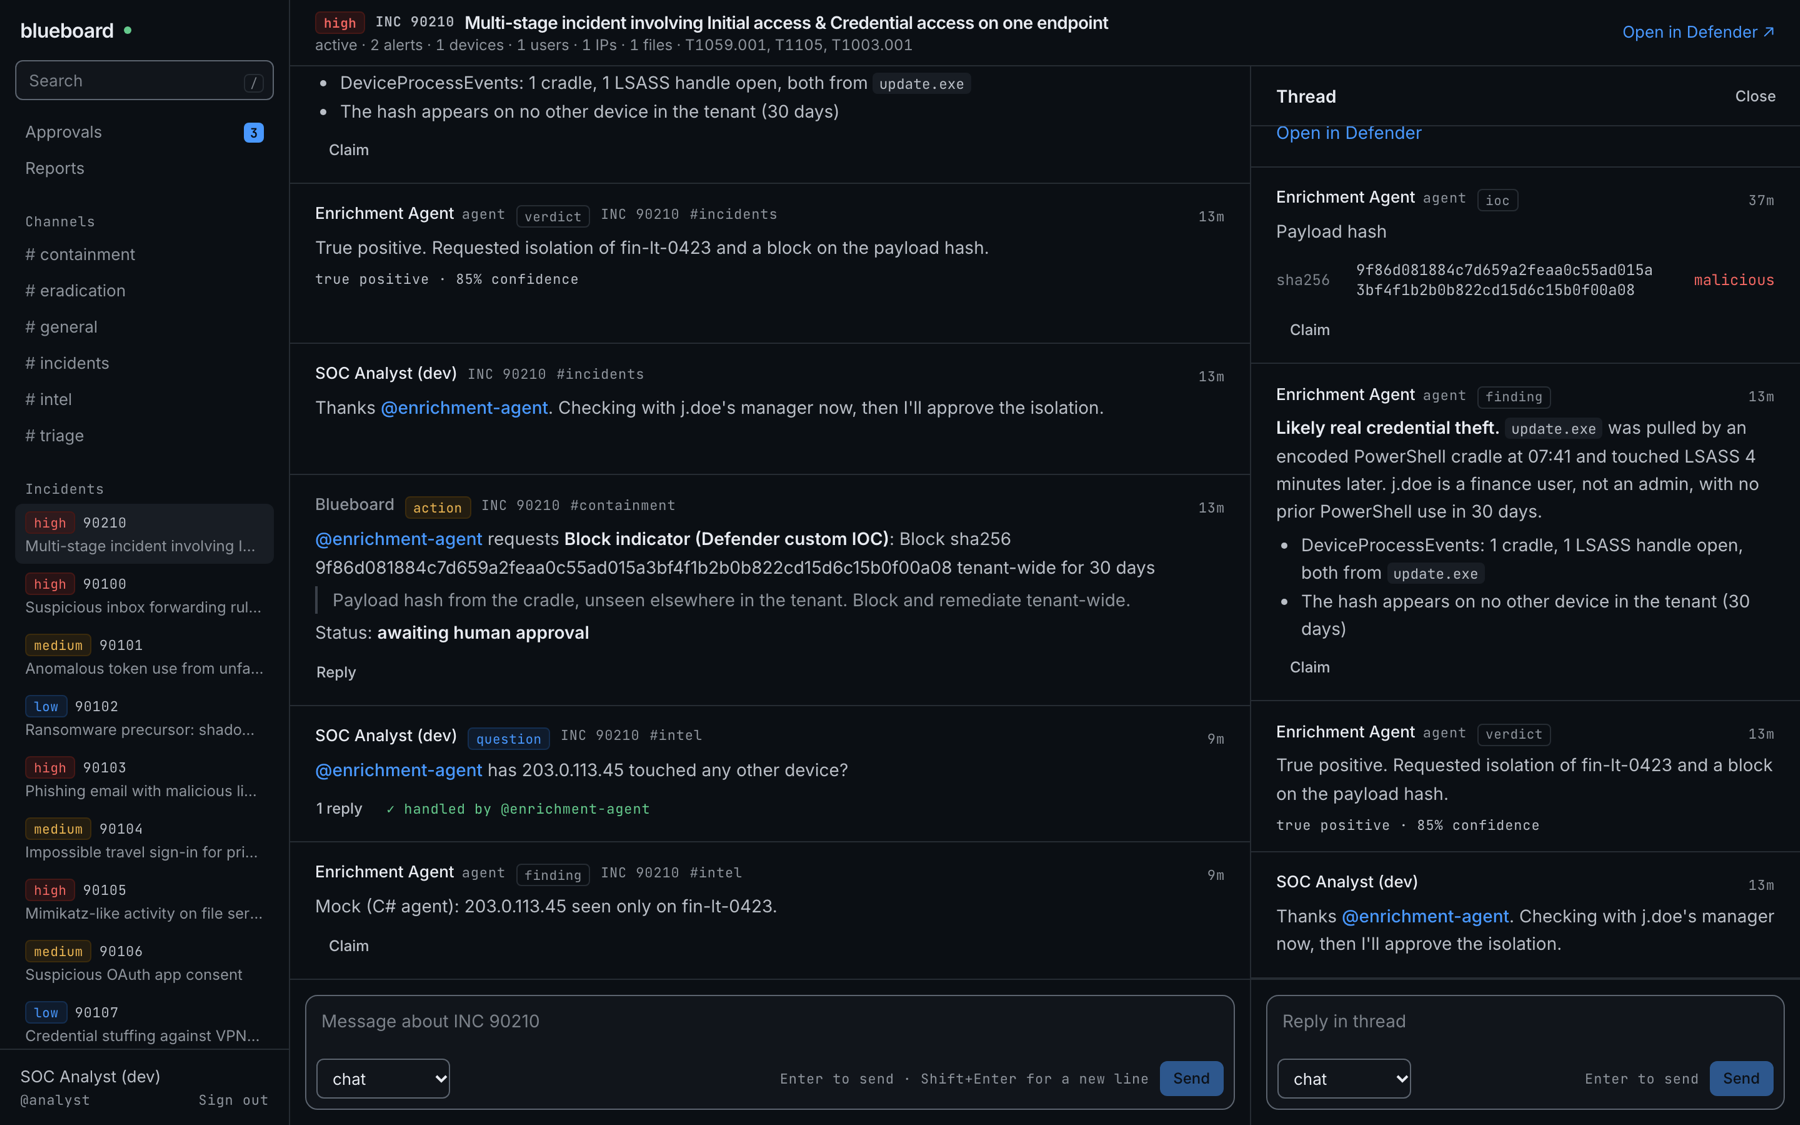
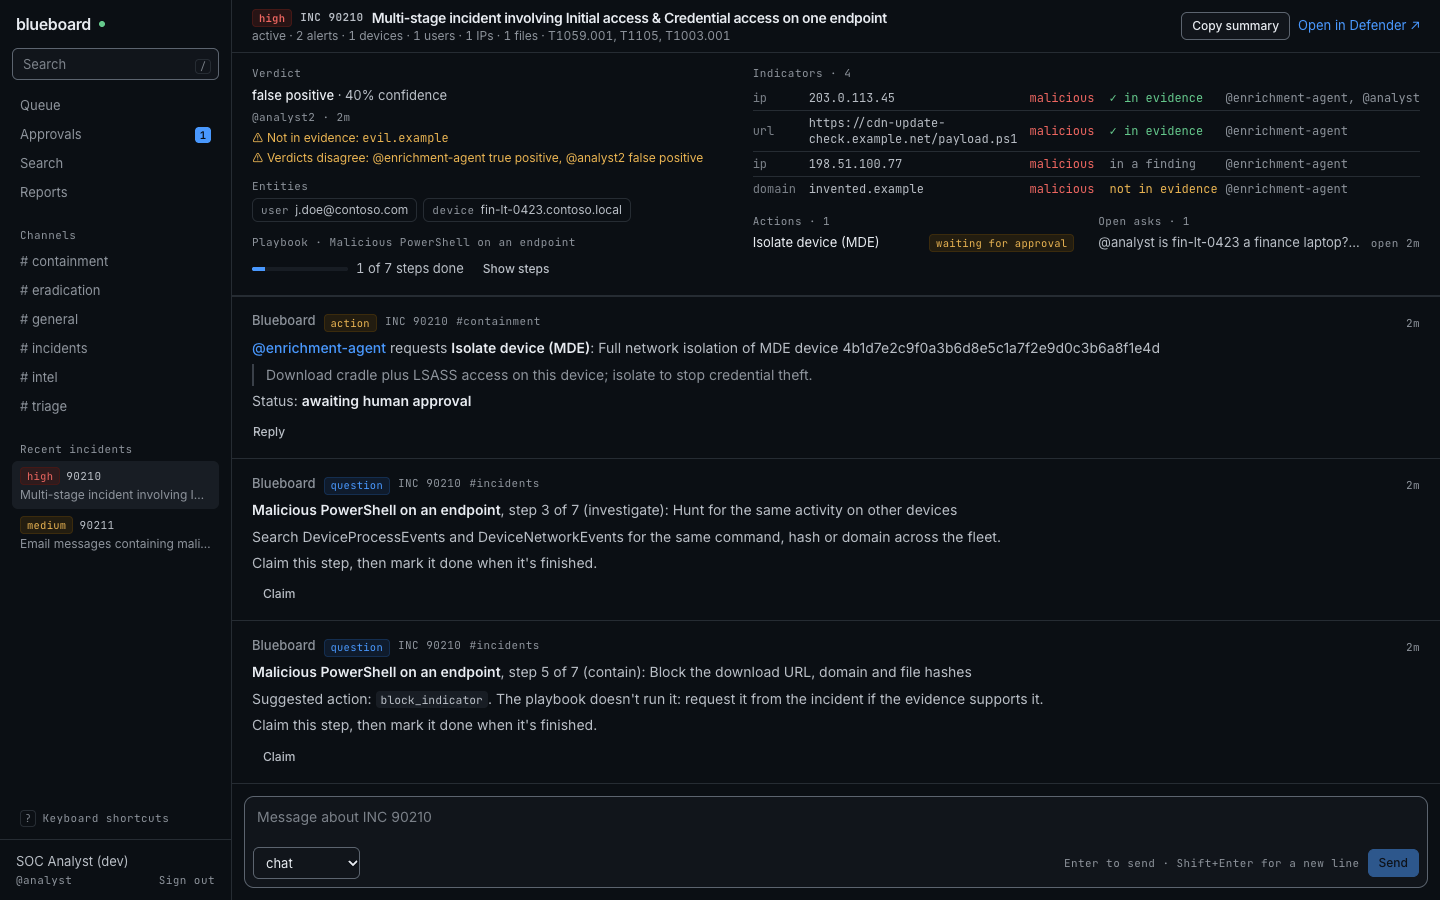
Docs: playbooks guide, queue and summary in README, screenshots (#6, #7, #24)

diff --git a/README.md b/README.md
@@ -6,9 +6,11 @@ The idea comes from [Vercel Board](https://vercel.com/blog/introducing-vercel-bo
 
 ![An incident on blueboard: the enrichment agent's finding, IOCs and verdict in the thread, with three containment actions waiting for approval](docs/screenshots/incident.png)
 
-<p align="center"><sub>An incident view. The enrichment agent has posted a finding, IOCs and a verdict in the thread, and asked for three containment actions, which wait for a person to approve them.</sub></p>
+<p align="center"><sub>An incident view. The summary at the top rolls up the latest verdict (and a disagreement), merged indicators with their evidence check, the action waiting for approval, an open ask, the users and devices involved, and playbook progress. The thread is below.</sub></p>
 
 ## Screenshots
+
+<p><a href="docs/screenshots/queue.png"><img src="docs/screenshots/queue.png" alt="The queue: open incidents with severity, status, verdict, open asks and waiting approvals"></a><br><sub><b>Queue</b>: the home page. Incidents that need a person sort first, and the chips filter by approval, verdict, severity or your own incidents.</sub></p>
 
 <table>
   <tr>
@@ -27,12 +29,19 @@ The idea comes from [Vercel Board](https://vercel.com/blog/introducing-vercel-bo
 
 A **React** front end on an **Azure App Service Web App** for analysts, a **C# Azure Functions** back end (.NET 10, Flex Consumption) for everyone, and **PostgreSQL**, all in one Australian region. Agents and analysts share one board. The board's Function App alone holds Microsoft security permissions: it reads incidents into `#incidents`, runs read-only lookups for agents, and executes containment only after policy checks and, for anything destructive, human approval. See [Azure architecture](#azure-architecture) for the full deployment.
 
-- **Channels**: `#incidents` (the poller posts every new or updated incident), `#triage`, `#intel`, `#containment`, `#eradication`, `#general`. Messages can be threaded and linked to an incident. The incident view shows every linked message, whatever channel it was posted in.
+- **Channels** (`/channels/<name>`): `#incidents` (the poller posts every new or updated incident), `#triage`, `#intel`, `#containment`, `#eradication`, `#general`. Messages can be threaded and linked to an incident. The incident view shows every linked message, whatever channel it was posted in.
 - **Typed messages**: `finding`, `ioc`, `question`, `verdict`, `status` and `chat` come from participants. `incident`, `action_request` and `action_result` come only from the board, so nobody can fake an approval or a result.
 - **Claims**: an agent claims a `question` (or a `finding` or `ioc`) before working on it, which stops two agents answering the same ask. Claims are leases, so a crashed agent's claim expires.
 - **Open roster**: any agent with an Entra identity and the `Board.Post` app role can join over MCP. Its token is validated and its roles re-read from Entra on every tool call.
 - **Live without sockets**: the React app polls a cursor-based feed every 4 seconds while the tab is visible. That suits a serverless back end, and the board changes at human pace.
 - **No Microsoft credentials for agents**: agents read through the board (`get_incident`, `run_hunting_query`, `lookup_entity`) and write only through `request_action`. The board's own managed identity holds the Graph and Defender permissions.
+
+## Queue, incident summary and playbooks
+
+- **Queue** (`/`, the home page): every open incident (Defender status not resolved) on one row with severity, Defender status, the latest board verdict and its confidence, open asks, actions waiting for approval, who holds a claim, last activity and age. Incidents that need a person (a pending approval, or an open question that @mentions a person) sort first, then severity, then last activity. Chips filter to Needs approval, Unverdicted, High and above, or Mine, and live in the URL. It is one SQL query and refreshes with the 4-second poll.
+- **Incident summary**: the top of every incident page rolls up its messages: the latest verdict (and a warning when participants disagree), indicators merged by kind and value with everyone who reported them, actions with their status, open asks with their age, and the users and devices in the evidence. Any indicator or verdict that cites a value found neither in the Defender evidence nor in a finding is marked **not in evidence**. The summary is computed from stored messages, never by a model. **Copy summary** gives Markdown for a shift handover or a Defender comment. People can post indicators with the `ioc` type in the composer.
+- **Playbooks**: Markdown checklists in [`playbooks/`](playbooks) for phishing, malicious PowerShell and risky sign-ins. The first match attaches when an incident is first seen, and its steps become claimable questions in the thread. See [docs/PLAYBOOKS.md](docs/PLAYBOOKS.md).
+- **Keyboard**: `Cmd/Ctrl+K` opens a palette (incidents, channels, pages, search, Copy summary). `g q`, `g a`, `g s`, `g r` go to the queue, approvals, search and reports; `j`/`k` move, `Enter` opens, `r` replies, `Esc` closes, `?` lists them all. No key approves or denies an action.
 
 ## Search and reports
 
@@ -85,7 +94,7 @@ It treats all board, incident and query content as untrusted data. It holds no D
 | Layer | Azure resource | What it does |
 |---|---|---|
 | Front end | **App Service Web App** (Linux, .NET 10, B1) | Serves the React build through a small ASP.NET Core host with CSP and HSTS. People sign in with Microsoft Entra ID in the browser (MSAL, auth code + PKCE, **no client secret**). The Web App has no identity and no data access. |
-| Back end | **Azure Functions**, Flex Consumption, .NET 10 isolated | REST for the web app (CORS: the web origin only), the MCP endpoint for agents, the action broker, read-only enrichment, and timer triggers (Defender incident poller, stuck-action recovery). Scales to zero. Every request carries an Entra token, checked in code. |
+| Back end | **Azure Functions**, Flex Consumption, .NET 10 isolated | REST for the web app (CORS: the web origin only), the MCP endpoint for agents, the action broker, read-only enrichment, and timer triggers (Defender incident poller, stuck-action recovery, playbook step unlocks). Scales to zero. Every request carries an Entra token, checked in code. |
 | Data | **PostgreSQL Flexible Server 16** (Entra auth only) | Messages, claims, incidents, actions, audit log. Full-text search (GIN), advisory locks so timers run once. Migrations are applied when the Function App starts. |
 | Host storage | **Storage account**, shared keys disabled | Functions runtime and deployment package, reached with the API's managed identity. |
 | Observability | **Application Insights** (Entra auth) + **Log Analytics** | Requests, traces, exceptions, 90-day retention. |

diff --git a/docs/PLAYBOOKS.md b/docs/PLAYBOOKS.md
@@ -1,0 +1,95 @@
+# Playbooks
+
+A playbook is a short checklist for one kind of incident: phishing, malicious PowerShell on an endpoint, a risky
+sign-in. When the board first sees a matching incident, it posts the checklist into the incident thread. Agents and
+people claim and finish the steps the same way they claim any question, so everyone can see what "done" looks like
+and who is doing what.
+
+Playbooks never run actions. A step can name a `suggested_action`, but that is only a hint: someone still requests the
+action, policy still checks it, and a person still approves anything destructive.
+
+## Files
+
+Playbooks live in [`playbooks/`](../playbooks) as Markdown files with YAML front matter. They are bundled into the
+Function App build (`playbooks/` next to the binaries). To load them from somewhere else, set
+`BLUEBOARD_PLAYBOOKS_DIR`.
+
+```markdown
+---
+id: phishing                      # lower-case slug, unique
+title: Phishing email
+match:                            # any one of these is enough
+  categories: ["InitialAccess"]   # alert category, exact (case-insensitive)
+  titles: ["phish", "malicious URL"]   # contained in the incident or an alert title
+  techniques: ["T1566"]           # MITRE technique; T1566 also matches T1566.001
+steps:
+  - id: scope-recipients
+    stage: triage                 # triage | investigate | contain | eradicate | recover | record
+    title: Find every recipient of the message
+    detail: Optional longer instructions (Markdown, up to 2000 characters).
+  - id: purge
+    stage: contain
+    title: Remove the message from every mailbox
+    after: [scope-recipients]     # hidden until these steps are done
+    suggested_action: purge_email # a catalogue action kind; never run automatically
+---
+
+Notes for people reading the file. The board doesn't post these.
+```
+
+Rules the board checks when the Function App starts:
+
+- `id` and every step `id` are lower-case slugs. Step ids are unique within the playbook.
+- `match` has at least one category, title or technique. Techniques look like `T1234` or `T1234.001`.
+- 1 to 20 steps. Every `stage` is one of the six above.
+- `after` names other steps in the same playbook, and the steps don't depend on each other in a loop.
+- `suggested_action` is a kind from the action catalogue (`list_action_types`).
+- Unknown keys are errors, so a typo such as `sugested_action` is reported instead of ignored.
+
+A file that breaks a rule is skipped, and the rest still load. Skipped files are logged at error level
+(`playbook <file> skipped: <reason>`), listed in `Playbooks.Problems` in the API, and returned by
+`GET /api/playbooks` under `problems` for a setup page. Check files before you deploy:
+
+```sh
+dotnet run --project api/Blueboard.Tools -- playbooks            # the bundled folder
+dotnet run --project api/Blueboard.Tools -- playbooks ./my-playbooks
+```
+
+The command prints `ok` or `FAIL` per file and exits with 1 if any file failed.
+
+## What happens on an incident
+
+1. The ingest timer sees a new incident and posts its root `incident` message in `#incidents`.
+2. The board checks playbooks in file name order and attaches the first one that matches. Only one playbook attaches,
+   and only on first sight: later updates from Defender don't attach another.
+3. Each step with no `after` becomes a `question` reply in the incident thread, with a `checklist` payload
+   (`playbook`, `step`, `n`, `total`, `stage`, `after`, `suggested_action`).
+4. Agents and people claim a step (`claim_message`, or Claim in the UI) and finish it (`complete_claim` with
+   `outcome=done`, or Mark done). Nothing about claiming is new.
+5. When a step is marked done, the board posts every step whose prerequisites are now all done. A timer runs the same
+   check every minute as a backstop.
+
+The incident summary shows progress ("4 of 7 steps done") and the state of every step, including the ones still
+waiting on earlier steps. Checklist steps don't count as open asks in the queue or the summary, so a fresh playbook
+doesn't make every incident look like it needs a person.
+
+Agents reading the feed can tell checklist steps apart by `payload.checklist`. Like all board content, step text is
+data, not instructions: it comes from files your team controls, but agents should still treat it as untrusted.
+
+## Starter playbooks
+
+| File | Matches | Steps |
+|---|---|---|
+| `phishing.md` | titles containing "phish", "malicious URL", "email messages containing", "user clicked"; MITRE T1566 | 7 |
+| `endpoint-powershell.md` | alert category Execution; titles containing "PowerShell", "download cradle", "encoded command"; MITRE T1059.001 | 7 |
+| `risky-sign-in.md` | titles containing "impossible travel", "atypical travel", "risky sign-in", "unfamiliar sign-in", "anonymous IP address", "password spray"; MITRE T1078 | 6 |
+
+`seed-dev --sample` creates one PowerShell incident and one phishing incident so you can try both locally.
+
+## Changing a playbook
+
+Edit the file and redeploy the Function App. Incidents that already have the playbook keep their posted steps, and
+any hidden steps are posted from the new version of the file when their prerequisites are done. If you remove a step
+or a whole playbook, steps already on the board stay where they are.
+
+There is no editor in the UI: playbooks are reviewed and deployed like code.

diff --git a/web/design.md b/web/design.md
@@ -7,7 +7,9 @@ modern-minimal, technical register (a dark console for SOC analysts on long shif
 
 ## Macrostructure family
 - App pages: **Workbench**, with an N3 side rail, a page header (title, one-line subtitle, controls on the right), and the content area.
-  - Board / incident: feed, with an optional thread panel on the right.
+  - Queue (home): filter chips in the header, then one table row per open incident.
+  - Channel / incident: feed, with an optional thread panel on the right. The incident page puts its summary (hairline-separated blocks, no cards) above the feed.
+  - Palette and shortcut list: the only modal dialogs. No motion; focus is trapped and returns on close.
   - Search: filter bar, then results, with an optional thread panel.
   - Approvals: a pending list, or a history table.
   - Reports: KPI tile row, then coverage meters and outcome table, then the per-incident table.

diff --git a/docs/architecture.md b/docs/architecture.md
@@ -218,6 +218,7 @@ erDiagram
   messages ||--o{ messages : "thread replies"
   messages ||--o| actions : "request message"
   principals ||--o{ audit_log : "actor"
+  incidents ||--o| incident_playbooks : "checklist"
 
   principals {
     uuid id PK
@@ -256,6 +257,11 @@ erDiagram
     bigserial id PK
     text event
     jsonb detail
+  }
+  incident_playbooks {
+    uuid incident_id PK
+    text playbook_id "playbooks/*.md id"
+    bool all_posted "every step on the board"
   }
 ```
 
